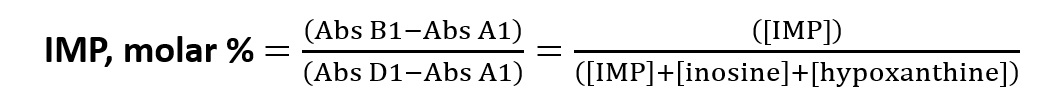
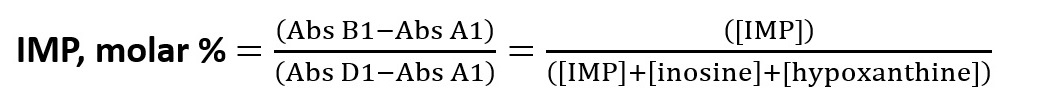
integrated formulas

diff --git a/app/views/dietary-nucleotides-assay-kits/fish-freshness-assay-kit.php b/app/views/dietary-nucleotides-assay-kits/fish-freshness-assay-kit.php
@@ -85,15 +85,20 @@ require_once $_SERVER['DOCUMENT_ROOT'] . "/app/templates/new_base.php";
             <li>4. Read absorbance at 340 nm using a microplate reader.</li>
             <li>Calculate absolute concentrations of each nucleotide or relative molar concentrations directly from absorbance values using formulas:</li>
         </ol>
-        <div class="mt-1 text-center">
-            <img src="/app/static/img/Fish-freshness/HxMolar.jpg" alt="mathematical expression" title="Hx, molar % =((Abs C1-Abs B1))/((Abs D1-Abs A1))=(([Hypoxanthine]))/(([IMP]+[inosine]+[hypoxanthine]))">
+        <div class="row justify-content-center">
+            <div class="col-lg-9 col-12">
+                <div class="mt-1 text-center">
+                    <img class="w-100" src="/app/static/img/Fish-freshness/HxMolar.jpg" alt="mathematical expression" title="Hx, molar % =((Abs C1-Abs B1))/((Abs D1-Abs A1))=(([Hypoxanthine]))/(([IMP]+[inosine]+[hypoxanthine]))">
+                </div>
+                <div class="mt-1 text-center">
+                    <img class="w-100" src="/app/static/img/Fish-freshness/ImpMolar.jpg" alt="mathematical expression" title="IMP, molar % =((Abs B1-Abs A1))/((Abs D1-Abs A1))=(([IMP]))/(([IMP]+[inosine]+[hypoxanthine]))">
+                </div>
+                <div class="mt-1 text-center">
+                    <img class="w-100" src="/app/static/img/Fish-freshness/KiMolar.jpg" alt="mathematical expression" title="Ki, molar % =((Abs D1-Abs B1))/((Abs D1-Abs A1))=(([inosine]+[hypoxanthine]))/(([IMP]+[inosine]+[hypoxanthine]))">
+                </div>
+            </div>
         </div>
-        <div class="mt-1 text-center">
-            <img src="/app/static/img/Fish-freshness/ImpMolar.jpg" alt="mathematical expression" title="IMP, molar % =((Abs B1-Abs A1))/((Abs D1-Abs A1))=(([IMP]))/(([IMP]+[inosine]+[hypoxanthine]))">
-        </div>
-        <div class="mt-1 text-center">
-            <img src="/app/static/img/Fish-freshness/KiMolar.jpg" alt="mathematical expression" title="Ki, molar % =((Abs D1-Abs B1))/((Abs D1-Abs A1))=(([inosine]+[hypoxanthine]))/(([IMP]+[inosine]+[hypoxanthine]))">
-        </div>
+
     </div>
 </main>
 
